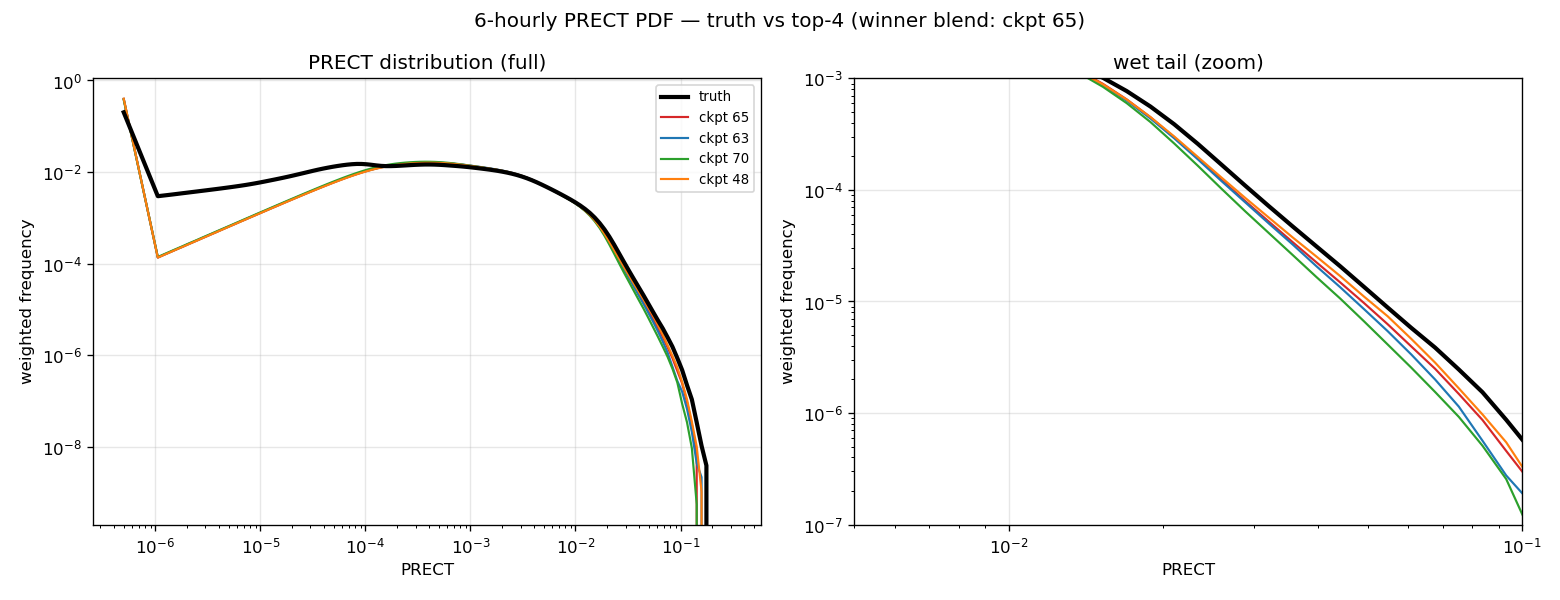
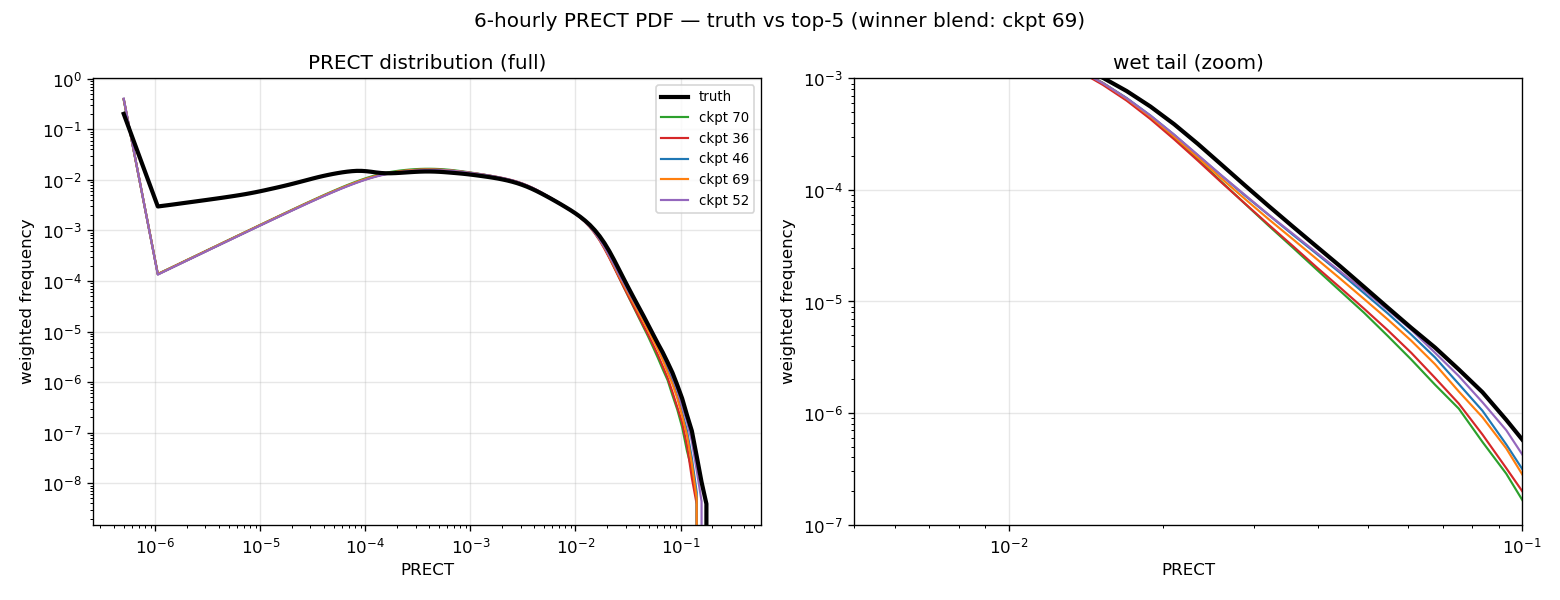
Default checkpoint 70 -> 69; fix quickstart checkpoint mismatch; refresh figures
Re-selection with corrected data (47/49 truncated-file re-runs) and with the
  double-counted trend metric removed moves the combined winner 70 -> 69.

  - MODEL_CARD.md: default, metrics, trade-off, captions, layout -> ckpt 69
  - Quickstart bug: download_assets.py fetched the default checkpoint while
    RunQuickClimate.sh and check_setup.py hardcoded checkpoint.pt00065.pt, so
    the documented 4-step quickstart ran a checkpoint it never downloaded.
    All entry points now agree on checkpoint.pt00069.pt.
  - figs: regenerate; winner bias maps renamed ckpt65 -> ckpt69

diff --git a/climate/download_assets.py b/climate/download_assets.py
@@ -66,8 +66,8 @@ def main():
     ap.add_argument("--revision", default=None, help="Branch/tag/commit to pull (default: main)")
     ap.add_argument("--assets_dir", default=os.path.join(os.path.dirname(__file__), "assets"),
                     help="Where to place the files (default: ./assets)")
-    ap.add_argument("--checkpoint", default="checkpoint.pt00065.pt",
-                    help="checkpoint file to fetch from the repo (default: checkpoint.pt00065.pt). "
+    ap.add_argument("--checkpoint", default="checkpoint.pt00069.pt",
+                    help="checkpoint file to fetch from the repo (default: checkpoint.pt00069.pt). "
                          "Set the same name as MODEL_NAME when you run.")
     ap.add_argument("--checkpoints", nargs="+", default=None,
                     help="fetch several checkpoints at once (overrides --checkpoint)")

diff --git a/climate/check_setup.py b/climate/check_setup.py
@@ -24,7 +24,7 @@ WARN = "  \033[33mwarn\033[0m"
 def main():
     ap = argparse.ArgumentParser(description=__doc__, formatter_class=argparse.RawDescriptionHelpFormatter)
     ap.add_argument("-c", "--config", default="./camulator_config.yml")
-    ap.add_argument("--model_name", default="checkpoint.pt00065.pt", help="checkpoint filename inside save_loc")
+    ap.add_argument("--model_name", default="checkpoint.pt00069.pt", help="checkpoint filename inside save_loc")
     args = ap.parse_args()
     fails = 0
 

diff --git a/climate/MODEL_CARD.md b/climate/MODEL_CARD.md
@@ -54,7 +54,7 @@ pip install -e . --no-deps        # --no-deps: environment.yml pins the exact st
 
 # 3. pull this model + its inputs into ./assets/
 cd climate
-python download_assets.py --repo_id willychap/camulator     # default checkpoint = epoch 65
+python download_assets.py --repo_id willychap/camulator     # default checkpoint = epoch 69
 
 # 4. verify + run (writes monthly-mean NetCDF by default)
 python check_setup.py
@@ -72,34 +72,190 @@ against the CREDIT ERA5-scaled training target on the same 1 degree grid
 (latitude-weighted), looking at both the monthly-mean climatology and the
 6-hourly distribution.
 
-Checkpoint 65 is selected as the default. The other top checkpoints
-(epochs 63, 70, 48, 47, 66, 76, 68, 51, 43) are provided as well, so you can
-evaluate them yourself, build cheap checkpoint ensembles, or study sensitivity to
-training stage — pick one with `download_assets.py --checkpoint checkpoint.pt000NN.pt`.
+#### How the evaluation works
 
-Checkpoint 65 climatology (latitude-weighted, full 35-yr record):
+Training loss is a poor guide to whether an emulator will hold together for
+decades, so we select checkpoints on *emulator behaviour*, not on validation
+loss. Every candidate epoch gets the same treatment:
+
+1. **Free-running rollout.** Each checkpoint runs the full 35 years
+   autoregressively from a single 1 Jan 1980 initial condition, with prescribed
+   SST/sea-ice/solar/CO2 forcing and the energy fixer active. Nothing is nudged
+   or re-initialized: errors are free to accumulate for 51,100 steps.
+2. **Score the monthly-mean climatology** against the training target for the two
+   headline fields (TREFHT, PRECT): spatiotemporal RMSE, climatological RMSE,
+   global-mean bias, global-mean monthly RMSE, decadal-trend error, and annual
+   correlation. Every spatial average is cos(latitude)-weighted.
+3. **Combine into one score.** Each metric is z-scored *across the checkpoints*
+   (so metrics in kelvin and metres-per-6h can be added), then summed into
+   `score_TREFHT` and `score_PRECT`; the combined score is their sum. **Lower is
+   better.** A separate average-rank ranking is computed as an independent
+   cross-check that the result is not an artefact of z-scoring.
+4. **Break ties on the 6-hourly tails.** The top few checkpoints are then scored
+   on how well they reproduce the *distribution tails* of PRECT and TREFHT —
+   things a monthly mean cannot see (see the key below). The final choice blends
+   the monthly and tail scores 50/50.
+
+This matters because the ranking is not what a loss curve would suggest, and the
+metrics disagree with each other — see the trade-off discussion below.
+
+All evaluation rollouts are run with the global energy fixer **active**, matching
+the constraint the model was trained under (see *Conservation at inference*
+below).
+
+**Checkpoint 69 is selected as the default.** The rest of the top ten by combined
+score (epochs 36, 70, 66, 51, 47, 75, 52, 64, 65) are provided as well, so you can
+evaluate them yourself, build cheap checkpoint ensembles, or study sensitivity to
+training stage — pick one with
+`download_assets.py --checkpoint checkpoint.pt000NN.pt`. Several checkpoints from
+earlier selections (33, 43, 46, 48, 63, 68, 76) also remain hosted.
+
+Checkpoint 69 climatology (latitude-weighted, full 35-yr record):
 
 | Field | Spatiotemporal RMSE | Global-mean bias | Decadal-trend error | Global-mean monthly RMSE | Annual corr. |
 |---|---|---|---|---|---|
-| TREFHT | 1.564 K | +0.033 K | -0.007 K/decade | 0.159 K | 0.985 |
-| PRECT  | 6.09e-4 (2.4 mm/day) | -3.9e-6 (essentially neutral) | -- | clim. RMSE 7.49e-5 | -- |
+| TREFHT | 1.602 K | -0.078 K | +0.013 K/decade | 0.160 K | 0.989 |
+| PRECT  | 6.12e-4 (2.4 mm/day) | +3.2e-6 (+0.01 mm/day) | -- | clim. RMSE 7.78e-5 | -- |
 
-The figures below summarize the metrics: a skill scorecard across the top
-checkpoints, checkpoint 65's annual-mean bias maps, the global-mean temperature
+#### Which checkpoint should you use?
+
+Checkpoint 69 is the default because it ranks first on precipitation overall and
+first on the blended monthly + 6-hourly score. On the monthly-mean climatology
+alone it is effectively tied with checkpoint 36 (the two composite scores differ
+by 1%, and the independent average-rank cross-check mildly prefers 36); the
+6-hourly tails are what separate them, and there 69 wins decisively. But the
+choice still encodes a weighting, and it is worth being explicit about the
+trade-off, because **no single checkpoint wins everything**:
+
+- **Precipitation.** Checkpoint 69 is the leader: it has the best composite PRECT
+  score of all 60 checkpoints, its global-mean precipitation bias is small in
+  absolute terms (+0.01 mm/day against a truth global mean of 2.93 mm/day, the
+  5th smallest of the 60), and it has the lowest total error (bias-RMSE) on the
+  6-hourly PRECT p99.9 / p99.99 heavy-rain tails. Checkpoint 70 edges it on the
+  *spatial correlation* of those tails (0.971 vs 0.969 at p99.9), but by a margin
+  far smaller than 69's advantage in magnitude.
+- **Temperature.** This is where 69 gives something up. **Checkpoint 70 is the
+  better temperature model**: it has a lower TREFHT RMSE (1.566 K vs 1.602 K) and
+  wins 4 of 6 6-hourly TREFHT tail metrics on bias-RMSE — i.e. it gets the
+  *spatial pattern* of temperature extremes right. If your application is
+  temperature-driven, 70 is a defensible choice.
+- **Global-mean tail bias.** Checkpoint 69 has a smaller global-mean bias than 70
+  on *every* tail metric we score (11/11), sometimes by a large factor (e.g. the
+  coldest-night TNn bias is +0.03 K for 69 vs +0.23 K for 70). 70's advantage on
+  temperature is in the pattern, not the offset.
+- **Checkpoint 36** is essentially tied with 69 on the monthly-mean climatology
+  (combined score -8.86 vs -8.95) and is the single best checkpoint on **TREFHT
+  alone**. It is not the default because its 6-hourly precipitation tails are by
+  far the worst of the finalists — a failure the monthly means cannot see, and
+  the clearest illustration of why the tail tiebreaker exists.
+- **Checkpoint 65** (an earlier default) remains strong on TREFHT but falls to
+  10th on the combined score.
+
+**So: use 69 for general-purpose work and anything precipitation-driven; consider
+70 if you are temperature-focused, or 36 if you want the best monthly-mean
+temperature and do not care about rainfall extremes.** The default reflects a
+50/50 blend of the monthly and 6-hourly scores with temperature and precipitation
+weighted roughly equally; a different, equally defensible weighting would select
+a different checkpoint.
+
+#### What the selection actually looks like
+
+![Skill metrics vs training epoch (dotted red = the selected default)](figs/monthly_metric_vs_epoch.png)
+
+This is the most informative view of the selection, and it is worth reading
+carefully before you assume "later epoch = better model".
+
+- **Skill improves with training, but noisily, and it saturates.** TREFHT RMSE
+  falls from ~1.70 K in the low 20s to ~1.57 K by the mid-60s, but the
+  epoch-to-epoch scatter (~0.05 K) is a large fraction of that total improvement.
+  Adjacent epochs can differ by more than the trend does over ten epochs. This is
+  why we evaluate a *population* of checkpoints rather than simply taking the last
+  one, and why the improvement past ~epoch 60 is not meaningful.
+- **The metrics disagree.** The epoch that minimizes TREFHT RMSE is not the one
+  that minimizes global bias, nor the one that minimizes PRECT RMSE. There is no
+  epoch that wins every panel — hence the combined z-score, and hence the
+  trade-off discussion above.
+- **Global temperature bias drifts cold with training.** Bias is scattered around
+  -0.05 K through the 40s and 50s, then trends toward -0.15 K beyond epoch 70
+  (mean -0.148 K for epochs >=71). Later is not better: the latest checkpoints are
+  measurably colder, which is one reason the default sits at epoch 69 rather than
+  at the end of training.
+- **Trend error is small everywhere, and shrinks with training.** Every one of
+  the 60 checkpoints has a decadal-trend error under 0.05 K/decade in magnitude
+  (median +0.006). Early epochs run warm (mean +0.025 K/decade at epoch <=30) and
+  this converges to roughly zero by epoch 60 (mean -0.003). This is the key
+  stability result — these are free-running 35-year rollouts with no drift
+  correction, so nothing prevents a trend error from growing except the model
+  itself.
+
+The remaining figures summarize the outcome: a skill scorecard across the top
+checkpoints, checkpoint 69's annual-mean bias maps, the global-mean temperature
 evolution against the training target, and the 6-hourly precipitation
 distribution.
 
 ![Checkpoint skill scorecard (green = better)](figs/monthly_scorecard.png)
 
-![Checkpoint 65 annual-mean bias maps](figs/monthly_ckpt65_biasmaps.png)
+![Checkpoint 69 annual-mean bias maps](figs/monthly_ckpt69_biasmaps.png)
 
 ![Global-mean TREFHT, 1980-2014: checkpoints vs training target](figs/monthly_gmt_timeseries.png)
 
 ![6-hourly PRECT distribution](figs/extremes_pdf_PRECT.png)
 
 > Note on PRECT units: native values are metres of liquid-water equivalent per
-> 6-hourly step (ERA5 `tp` convention); mm/day = native x 4000. Checkpoint 65's
-> global-mean precipitation is 2.92 mm/day vs. truth 2.93.
+> 6-hourly step (ERA5 `tp` convention); mm/day = native x 4000 (1000 mm/m x 4
+> steps/day). Checkpoint 69's global-mean precipitation is 2.95 mm/day vs. truth
+> 2.93.
+
+#### Key: variables, metrics, and acronyms
+
+**Variables**
+
+| Name | Meaning |
+|---|---|
+| `TREFHT` | Reference-height (2 m) air temperature, in kelvin. The standard "surface air temperature". |
+| `PRECT` | Total precipitation (convective + large-scale). Native units are metres of liquid-water equivalent per 6-hourly step; mm/day = native x 4000. |
+| `GMT` | Global-mean temperature — the cos(latitude)-weighted spatial mean of `TREFHT`. |
+
+**Tail / extremes metrics** (computed per grid point over the full 6-hourly
+record, then aggregated)
+
+| Name | Meaning |
+|---|---|
+| `p99`, `p99.9`, `p99.99` | The 99th / 99.9th / 99.99th percentile of the 6-hourly values at each grid point — the *hot* tail for TREFHT, the *heavy-rain* tail for PRECT. p99.99 of 6-hourly data is roughly a once-a-year event. |
+| `p1`, `p0.1` | The 1st / 0.1st percentile — the *cold* tail of TREFHT. |
+| `TXx` | Mean of the **annual maxima** of TREFHT — the typical hottest moment of a year ("T-max-max"). |
+| `TNn` | Mean of the **annual minima** of TREFHT — the typical coldest moment of a year ("T-min-min"). |
+| `Rx` | Mean of the **annual maximum** 6-hourly precipitation — the typical wettest 6 hours of a year. |
+| `freq>~10mm/d` | Fraction of 6-hourly steps exceeding a ~10 mm/day rain rate — how *often* it rains hard, as opposed to how hard. |
+
+`TXx`, `TNn`, and `Rx` follow the standard ETCCDI climate-extremes convention.
+
+**Error measures**
+
+| Name | Meaning |
+|---|---|
+| RMSE | Root-mean-square error vs the training target. All spatial averages are cos(latitude)-weighted, so grid cells are weighted by true area. |
+| Global-mean bias | Model global mean minus truth global mean. Can be small even when the model is locally wrong, because errors of opposite sign cancel. |
+| bias-RMSE | RMSE of the *map* of tail bias. Unlike global-mean bias, local errors cannot cancel. Related by RMSE² = bias² + (centred RMSE)², i.e. bias-RMSE already contains the global offset. |
+| Centred RMSE | The part of the error left after removing the global-mean offset — i.e. how wrong the spatial *pattern* is, independent of any uniform shift. |
+| Pattern correlation | Area-weighted spatial correlation between the model and truth maps: does the model put the extremes in the right *places*? |
+| Trend error | Model minus truth linear trend in global-mean TREFHT over the record, in K/decade. Near zero means the free-running rollout is not drifting. |
+| z-score | A metric re-expressed as standard deviations from the mean *across the evaluated checkpoints*. Lets metrics with different units be summed into one score. It is relative: a good z-score means "better than the other checkpoints", not "good in absolute terms". |
+
+### Conservation at inference
+
+CAMulator is trained with a global **energy fixer** (an up/down rescaling of the
+temperature field that closes the column energy budget against the prescribed
+TOA and surface fluxes). This constraint is **active at inference** and is
+enabled in the shipped `inference_config.yaml`; running without it is a
+train/inference mismatch.
+
+Enabling it costs a little accuracy relative to running unconstrained — it makes
+global-mean precipitation ~2% wetter, because rescaling temperature changes
+saturation vapour pressure and so perturbs precipitation indirectly — but it is
+the constraint the model was trained under, it is stable over 35-year rollouts
+(no drift, no NaN), and it is what makes the energy budget physically meaningful.
+All numbers and figures on this card are produced with the fixer active.
 
 ### Repository layout
 
@@ -107,7 +263,7 @@ distribution.
 willychap/camulator
 ├── README.md                          # this model card
 ├── inference_config.yaml              # ready-to-run config (= camulator_config.yml)
-├── checkpoint.pt00065.pt              # default model (epoch 65); top-10 epochs alongside
+├── checkpoint.pt00069.pt              # default model (epoch 69); other top epochs alongside
 ├── forcing_data/
 │   ├── b.e21.CREDIT_climate_cyclic_1yr_f32coords.nc      # cyclic (default)
 │   └── b.e21.CREDIT_climate_branch_1980_2014.nc          # progressive/transient

diff --git a/climate/README.md b/climate/README.md
@@ -46,7 +46,7 @@ time) and ~6 GB of asset downloads (~4.5 GB checkpoint + 1.3 GB forcing +
 statics). Host RAM ~16 GB is plenty (the `#PBS mem` in `RunQuickClimate.sh` is
 deliberately over-provisioned for NCAR).
 
-The default model is **`checkpoint.pt00065.pt`** (training epoch 65). The HF repo
+The default model is **`checkpoint.pt00069.pt`** (training epoch 69). The HF repo
 hosts many epochs; pick one with `download_assets.py --checkpoint <name>` and set
 `MODEL_NAME` to match — see *Choosing a checkpoint* below.
 
@@ -123,12 +123,12 @@ Edit `camulator_config.yml` → `predict:`
 | `save_forecast` | Output root (default `./output/`). |
 
 …and the experiment knobs in `RunQuickClimate.sh`: `FOLD_OUT` (run name),
-`MODEL_NAME` (checkpoint file in `./assets/`, default `checkpoint.pt00065.pt`),
+`MODEL_NAME` (checkpoint file in `./assets/`, default `checkpoint.pt00069.pt`),
 and `AVG` (`monthly` default → monthly means; `daily`; `none` → 6-hourly).
 
 ### Choosing a checkpoint
 
-Many training epochs are hosted (`checkpoint.pt000NN.pt`). Default is epoch 65.
+Many training epochs are hosted (`checkpoint.pt000NN.pt`). Default is epoch 69.
 To use a different one, download it and set `MODEL_NAME` to the same name:
 
 ```bash
@@ -171,7 +171,7 @@ All config paths are `./assets/<file>`. Fill `./assets/` one of two ways:
 
 | File in `assets/` | ~Size | Used for | NCAR origin |
 |---|---|---|---|
-| `checkpoint.pt00065.pt` | 4.5 G | the trained model (default epoch; other epochs hosted too) | `…/CREDIT_runs/NEW_CLI_JOHN_CASPER_extended_v2/checkpoint.pt00065.pt` |
+| `checkpoint.pt00069.pt` | 4.5 G | the trained model (default epoch; other epochs hosted too) | `…/CREDIT_runs/NEW_CLI_JOHN_CASPER_extended_v2/checkpoint.pt00069.pt` |
 | `mean_6h_Coupled_1980_2014_32lev_1.0deg_ERA5scaled_F32_Qtot_Mixed_Modal.nc` | 0.5 M | normalization mean | `…/b_credit_runs/` |
 | `std_6h_Coupled_1980_2014_32lev_1.0deg_ERA5scaled_F32_Qtot_Mixed_Modal.nc` | 0.5 M | normalization std | `…/b_credit_runs/` |
 | `statics_b_credit_runs_f32_02.nc` | 50 M | static inputs + mass/water fixers | `…/b_credit_runs/` |
@@ -218,7 +218,7 @@ uploaded as the repo's `README.md`):
 willychap/camulator        (HF model repo)
 ├── README.md                          # the model card (from climate/MODEL_CARD.md)
 ├── inference_config.yaml              # = camulator_config.yml
-├── checkpoint.pt00065.pt              # default epoch (others: checkpoint.pt000NN.pt)
+├── checkpoint.pt00069.pt              # default epoch (others: checkpoint.pt000NN.pt)
 ├── forcing_data/
 │   ├── b.e21.CREDIT_climate_cyclic_1yr_f32coords.nc   # cyclic (default)
 │   └── b.e21.CREDIT_climate_branch_1980_2014.nc       # progressive (slim, ~10 GB)
@@ -276,7 +276,7 @@ training zarr on NCAR):
 
 ```bash
 python Make_Climate_Initial_Conditions.py -c ./camulator_config.yml \
-       --model_name checkpoint.pt00065.pt
+       --model_name checkpoint.pt00069.pt
 ```
 
 ---
